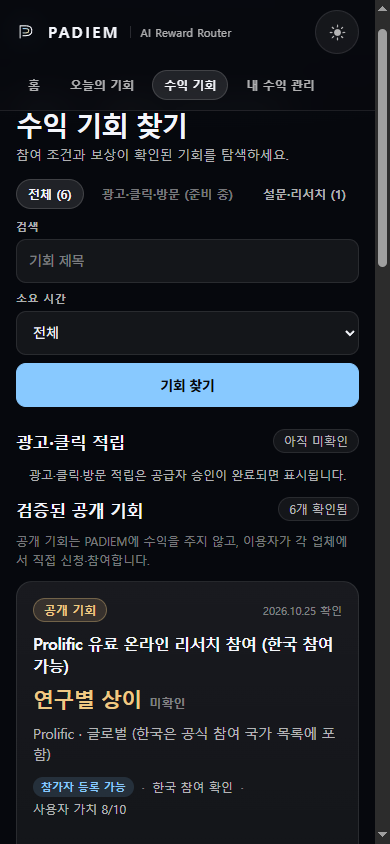
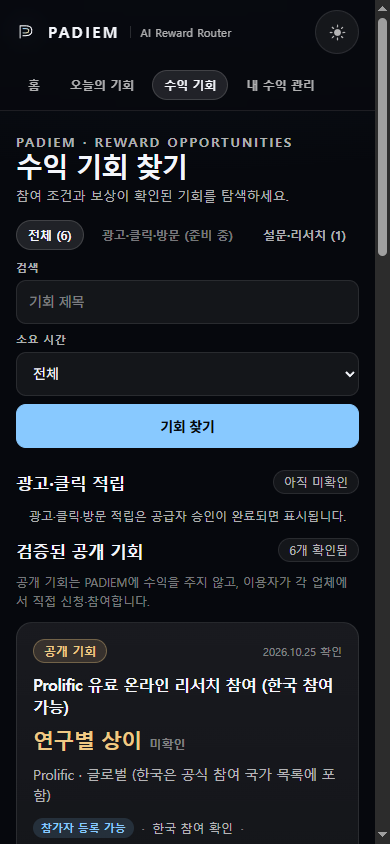
fix(b64): anchor scroll inset and standardized 390px captures for the browse heading (#5822)
CENTRAL second review follow-up: browse-dark-390.png showed the heading
clipped beneath the sticky top bar.

Root cause measured, not guessed:
- direct load at 390px, scrollY=0: h1 top=152px vs header bottom=111px —
  no clipping, layout is sound
- scrolled to 600 then reloaded: the browser RESTORED scrollY=603
  (h1 top=-451) — the original capture was taken in exactly that restored
  state, so the defect was the screenshot procedure, not the sticky-header
  inset

Fix:
- capture evidence is now standardized: every 390px capture forces
  scrollY=0 before shooting; browse-dark-390.png is re-captured clean and
  browse-light-390.png is added so the browse screen is evidenced in BOTH
  themes at 390px (14 captures total)
- defensive inset for the same class of jump: shared
  main#top { scroll-margin-top: 96px } in THEME_CSS_SHELL_INSET so the
  brand-link #top anchor always clears the sticky header

Tests: 355/355 pass.

diff --git a/apps/ai-reward-router/src/ui/theme.ts b/apps/ai-reward-router/src/ui/theme.ts
@@ -179,7 +179,9 @@ export const THEME_CSS_VARIABLES = `
 
 /** Top-bar theme-toggle styles shared by both renderers. The control keeps a
  * 44×44px hit area (iOS HIG / Material minimum touch target) at every width,
- * with a clearly visible keyboard focus ring. */
+ * with a clearly visible keyboard focus ring. THEME_CSS_SHELL_INSET is the
+ * shared sticky-header inset: the `#top` anchor target clears the sticky
+ * header when the brand link or a restored scroll lands on it. */
 export const THEME_CSS_TOGGLE = `
     .theme-toggle { display: inline-flex; align-items: center; justify-content: center; width: 44px; height: 44px; margin-left: 8px; border-radius: 999px; border: 1px solid var(--line-soft); background: var(--surface); color: var(--muted); transition: color .16s ease, background .16s ease, border-color .16s ease; }
     .theme-toggle:hover { color: var(--text); border-color: var(--accent-border); background: var(--surface-strong); }
@@ -189,3 +191,7 @@ export const THEME_CSS_TOGGLE = `
     @media (max-width: 480px) {
       .theme-toggle { width: 44px; height: 44px; margin-left: 4px; }
     }`;
+
+/** Shared sticky-header inset for the `#top` scroll target (issue #5822 QA). */
+export const THEME_CSS_SHELL_INSET = `
+    main#top { scroll-margin-top: 96px; }`;

diff --git a/apps/ai-reward-router/src/income-pipeline/consumer-view.ts b/apps/ai-reward-router/src/income-pipeline/consumer-view.ts
@@ -3,6 +3,7 @@ import { INCOME_PIPELINE_STATUS_LABELS, INCOME_PIPELINE_STATUSES, formatCurrency
 import type { PublicOpportunity } from '../public-supply/domain.js';
 import { toPublicOpportunityCard, isPublicOpportunityDisplayable } from '../public-supply/domain.js';
 import {
+  THEME_CSS_SHELL_INSET,
   THEME_CSS_TOGGLE,
   THEME_CSS_VARIABLES,
   renderThemeToggleButton,
@@ -220,6 +221,7 @@ ${THEME_CSS_VARIABLES}
     .brand-product { font-size: 12px; font-weight: 500; letter-spacing: .02em; color: var(--muted); white-space: nowrap; }
     .trust-note { margin-left: auto; font-size: 11px; color: var(--faint); white-space: nowrap; }
 ${THEME_CSS_TOGGLE}
+${THEME_CSS_SHELL_INSET}
     .primary-nav { display: flex; gap: 6px; overflow-x: auto; scrollbar-width: none; flex-wrap: nowrap; -webkit-overflow-scrolling: touch; width: 100%; order: 3; padding: 8px 0 2px; }
     .primary-nav::-webkit-scrollbar { display: none; }
     .nav-item { flex: 0 0 auto; padding: 7px 13px; border-radius: 999px; font-size: 13px; font-weight: 600; color: var(--muted); border: 1px solid transparent; transition: color .16s ease, background .16s ease, border-color .16s ease; }

diff --git a/apps/ai-reward-router/src/ad-click-first/consumer-web.ts b/apps/ai-reward-router/src/ad-click-first/consumer-web.ts
@@ -8,6 +8,7 @@ import type { AdClickConsumerCard } from './consumer-card.js';
 import type { PublicOpportunityCard, PublicOpportunityDetail } from '../public-supply/domain.js';
 import { koreaEligibilityLabel, publicRewardNote } from '../public-supply/domain.js';
 import {
+  THEME_CSS_SHELL_INSET,
   THEME_CSS_TOGGLE,
   THEME_CSS_VARIABLES,
   renderThemeToggleButton,
@@ -287,6 +288,7 @@ ${THEME_CSS_VARIABLES}
     .brand-product { font-size: 12px; font-weight: 500; letter-spacing: .02em; color: var(--muted); white-space: nowrap; }
     .trust-note { margin-left: auto; font-size: 11px; color: var(--faint); white-space: nowrap; }
 ${THEME_CSS_TOGGLE}
+${THEME_CSS_SHELL_INSET}
 
     .primary-nav { display: flex; gap: 6px; overflow-x: auto; scrollbar-width: none; flex-wrap: nowrap; -webkit-overflow-scrolling: touch; width: 100%; order: 3; padding: 8px 0 2px; }
     .primary-nav::-webkit-scrollbar { display: none; }
